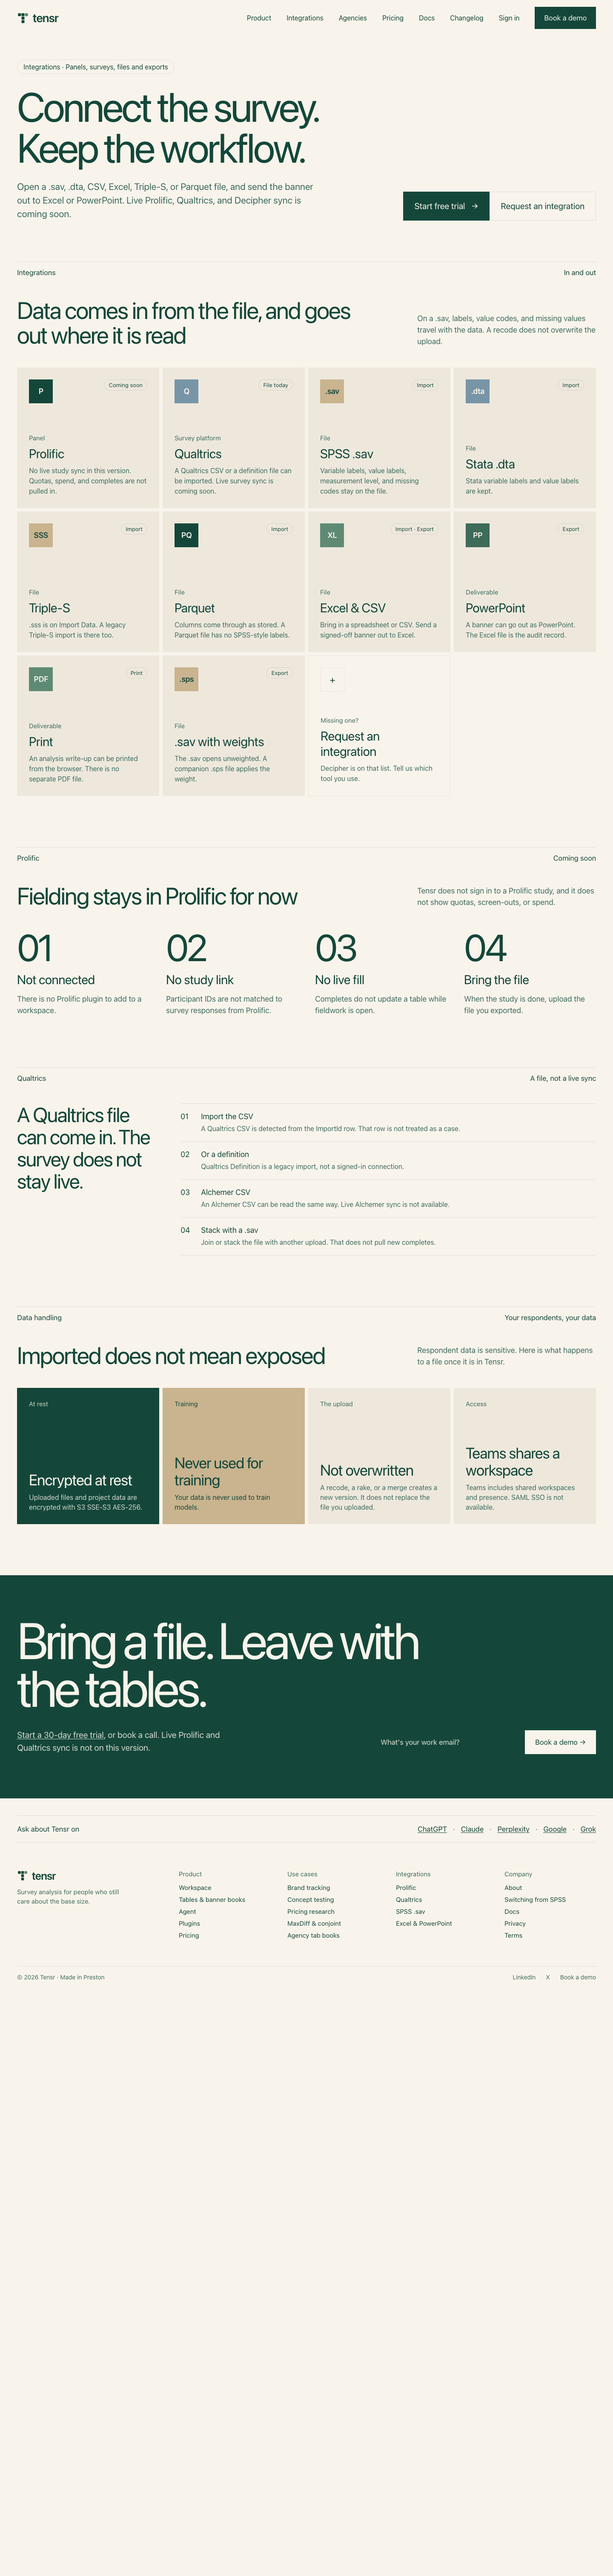
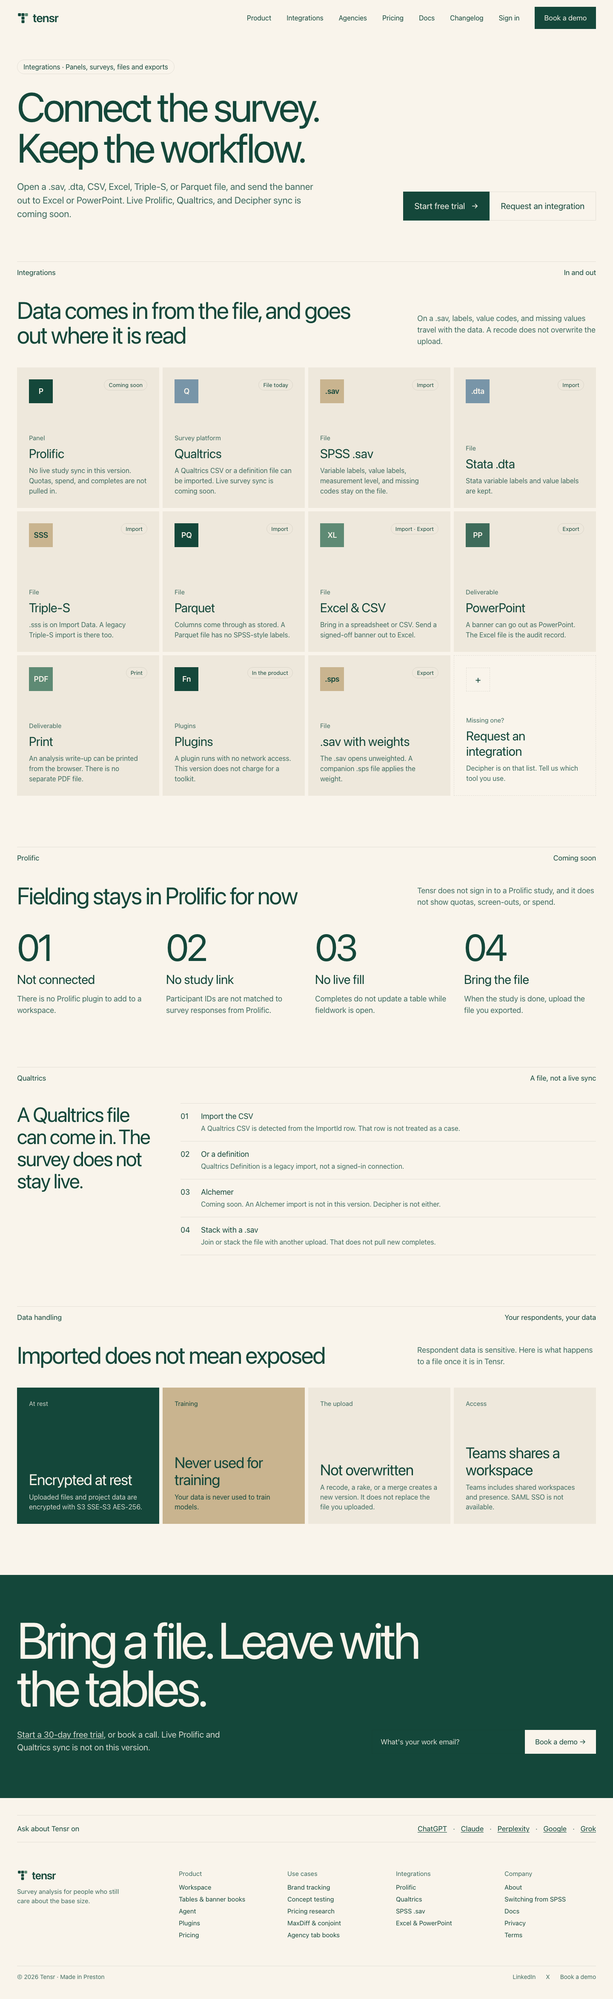
Finish the integrations grid without a plugin marketplace claim.

diff --git a/components/paper/integrations.tsx b/components/paper/integrations.tsx
@@ -83,6 +83,14 @@ const cards: {
     body: 'An analysis write-up can be printed from the browser. There is no separate PDF file.',
   },
   {
+    mark: 'Fn',
+    markClass: 'bg-[#14473A] text-[#F9F4EB]',
+    badge: 'In the product',
+    kicker: 'Plugins',
+    title: 'Plugins',
+    body: 'A plugin runs with no network access. This version does not charge for a toolkit.',
+  },
+  {
     mark: '.sps',
     markClass: 'bg-[#C9B48F] text-[#14473A]',
     badge: 'Export',

diff --git a/design/paper/PROGRESS-site.md b/design/paper/PROGRESS-site.md
@@ -4,19 +4,19 @@ Repo: `tensr-landing-ui` pull request #24 (`agent/paper-site`), checkout `tensr-
 Dev server: `http://localhost:3001` (`next dev --port 3001`). Port 3000 is the app and is left alone.
 Paper file: Lucky waterfall `01M59W7RD1PH1ASN75MD4AQQ0W`, page ★ Flow · latest drafts.
 
-Counts: todo 5 · matched 2 · done 2
+Counts: todo 0 · matched 0 · done 9
 
-| Page | Artboard | Route | Status |
-| --- | --- | --- | --- |
-| 0 Landing | 2WD-0 | `/` | done |
-| 0b Product | 18A5-0 | `/product` | matched |
-| 0c Integrations | 1CX3-0 | `/integrations` | matched |
-| 0d Agencies | 17UM-0 | `/agencies` | done |
-| 0e Pricing | 1BZU-0 | `/pricing` | todo |
-| 0h Book a demo | 1A3G-0 | `/demo` | todo |
-| 0i Docs | 1DTL-0 | `/docs` | todo |
-| 0j Changelog | 1DTM-0 | `/changelog` | todo |
-| 0k Security | 1DTN-0 | `/security` | todo |
+| Page | Artboard | Route | Status | Live |
+| --- | --- | --- | --- | --- |
+| 0 Landing | 2WD-0 | `/` | done | `design/paper/live/0-landing.png` 1440×7624 |
+| 0b Product | 18A5-0 | `/product` | done | `design/paper/live/0b-product.png` 1440×10774 |
+| 0c Integrations | 1CX3-0 | `/integrations` | done | `design/paper/live/0c-integrations.png` 1440×4695 |
+| 0d Agencies | 17UM-0 | `/agencies` | done | `design/paper/live/0d-agencies.png` 1440×6458 |
+| 0e Pricing | 1BZU-0 | `/pricing` | done | `design/paper/live/0-pricing.png` 1440×3294 |
+| 0h Book a demo | 1A3G-0 | `/demo` | done | `design/paper/live/0-demo.png` 1440×1570 |
+| 0i Docs | 1DTL-0 | `/docs` | done | `design/paper/live/0-docs.png` 1440×2046 |
+| 0j Changelog | 1DTM-0 | `/changelog` | done | `design/paper/live/0-changelog.png` 1440×5824 |
+| 0k Security | 1DTN-0 | `/security` | done | `design/paper/live/0-security.png` 1440×2671 |
 
 `matched` means the page is built and compared. `done` means the layout and type match the artboard, with the copy made honest where the artboard invents things.
 
@@ -38,7 +38,12 @@ Counts: todo 5 · matched 2 · done 2
 - Type on the Paper pages is weight 400, plus 500 where that page’s export uses it. The wordmark and the workspace marks the export sets at 600 stay at 600.
 - A route change shows one Loading state. Loaded sections do not fade in on their own.
 - Landing is done. Honest copy: the case-study slot is the four-step workflow; Prolific fielding reads Coming soon; the Qualtrics stack tile is not labelled coming soon because file import exists; MaxDiff, conjoint, Van Westendorp, and Gabor-Granger are available. The Show row is one line.
-- Product is not done. Choice modelling and the pricing card now say MaxDiff, conjoint, Van Westendorp, and Gabor-Granger are available. Plugins are not a store. Levelled data is not claimed. The report does not say a deck updates while fieldwork is open. Notebook copy is R cells and an R script.
-- Product embedded screens are not filled yet. Fill them at the end from tensr-platform-web PR #142 (`agent/flow-shell`) demo captures of Responses, Evidence, Themes, and Tables, or from the Paper screens after the Prolific chip and invented figures are removed. localhost:3000 is the other agent’s app and was not used.
-- Integrations is not done. The grid is in place. Alchemer and Decipher imports say coming soon. A Qualtrics CSV and a Qualtrics definition stay. Print is the browser dialog, not a PDF file. The plugins marketplace card is not on the page. The letter tiles use the export’s 600 weight. The Prolific block is the four steps, not the artboard’s fielding screen.
-- Agencies is done at 1440×7074, against a 6559 artboard. Honest copy: no 42-table wave, no Scotland 42%, no Prolific 312/400, no client template, no named partners. The next wave reruns when the file is in, not while fieldwork is open. Organisation roles are owner or member. Data is AWS us-east-1, AES-256, and not used for training. Design partners is an invitation, with no names and no count.
+- Product is done at 1440×10774, against a 10236 artboard. Choice modelling and the pricing card say MaxDiff, conjoint, Van Westendorp, and Gabor-Granger are available. Plugins are not a store. Levelled data is not claimed. The report does not say a deck updates while fieldwork is open. Notebook copy is R cells and an R script. Open ends are a keyword lexicon (`docs/claims.md`), not model-written themes.
+- Product screens are the Paper exports `4a-responses`, `4c-evidence`, `4g-themes`, and `5-tables` from `tensr-platform-web-flow/design/paper/`, copied to `public/paper/product/`. The Prolific chip, the 312/400 count, result percentages, bases, and quote callouts are painted out. Sidebar labels such as “W4 client book” remain as chrome. localhost:3000 was not used. Real app captures replace these files later.
+- Integrations is done at 1440×4695, against a 5624 artboard. The grid includes a Plugins card: no network, and this version does not charge for a toolkit. Alchemer and Decipher imports say coming soon. A Qualtrics CSV and a Qualtrics definition stay. Print is the browser dialog. The Prolific block is four steps, not the artboard’s fielding screen. That substitution is why the page is shorter.
+- Agencies is done at 1440×6458, against a 6559 artboard. Honest copy: no 42-table wave, no Scotland 42%, no Prolific 312/400, no client template, no named partners. The next wave reruns when the file is in, not while fieldwork is open. Organisation roles are owner or member. Files are AWS us-east-1 with SSE-S3 AES-256. The earlier “never used to train” and “OpenAI does not train on API data” sentences are removed. The card now says the v2 agent calls Anthropic and v1 still calls OpenAI, and that a training policy is not stated. Design partners is an invitation, with no names and no count.
+- Pricing is done at 1440×3294, against a 4896 artboard. Prices are `app/plan_catalog.json`: Pro £79 / £63 annual (£756), Pro+ £149 / £119 (£1,428), Teams £119 a seat with a 3-seat minimum / £95 (£1,140 a seat). Trial is £0 for 30 days, 5 datasets, 100,000 rows, 150 tables, 150 agent runs, 150 reports, 8 runs an hour. USD figures in the catalog are marked proposed and are not on the page. Priority support, early access, and a PDF file are not in the catalog, so those artboard rows are not on the page. That is why it is shorter.
+- Book a demo is done at 1440×1570, against a 1670 artboard. The form is `mailto:help@tensr.xyz`. Fields start empty. There is no calendar and no prefilled name. Step 03 does not say the deck regenerates while fieldwork is open, and it does not mention a client template.
+- Docs index is done at 1440×2046, against a 2433 artboard. The sidebar and the cards link to the real guides in `content/docs/meta.json`. The introduction is the real `index.mdx`. Article routes stay on the docs reader.
+- Changelog is done at 1440×5824, against a 3055 artboard. Entries are `getChangelogEntries()`, the published notes, newest first. The artboard’s 21 Oct “Merging and levelled data” card is not a note. There is no mailing list, so the subscribe box is an RSS link.
+- Security is done at 1440×2671, against a 3148 artboard. Checked before writing: CDK region us-east-1; file, project, and plugin buckets use `BucketEncryption.S3_MANAGED` (SSE-S3 AES-256), not a customer-managed KMS key; the API is an API Gateway HTTP API (HTTPS); v2 defaults to Anthropic and v1 defaults to OpenAI; `docs/plugin-isolation.md` says plugin network access is disabled. No file named data-trust exists in tensr-api. Left off the page because they are not in the repo: a provider training promise, SOC 2, a deletion retention window (the 30-day S3 rule is a move to infrequent access, not a delete), SAML, and SCIM.
